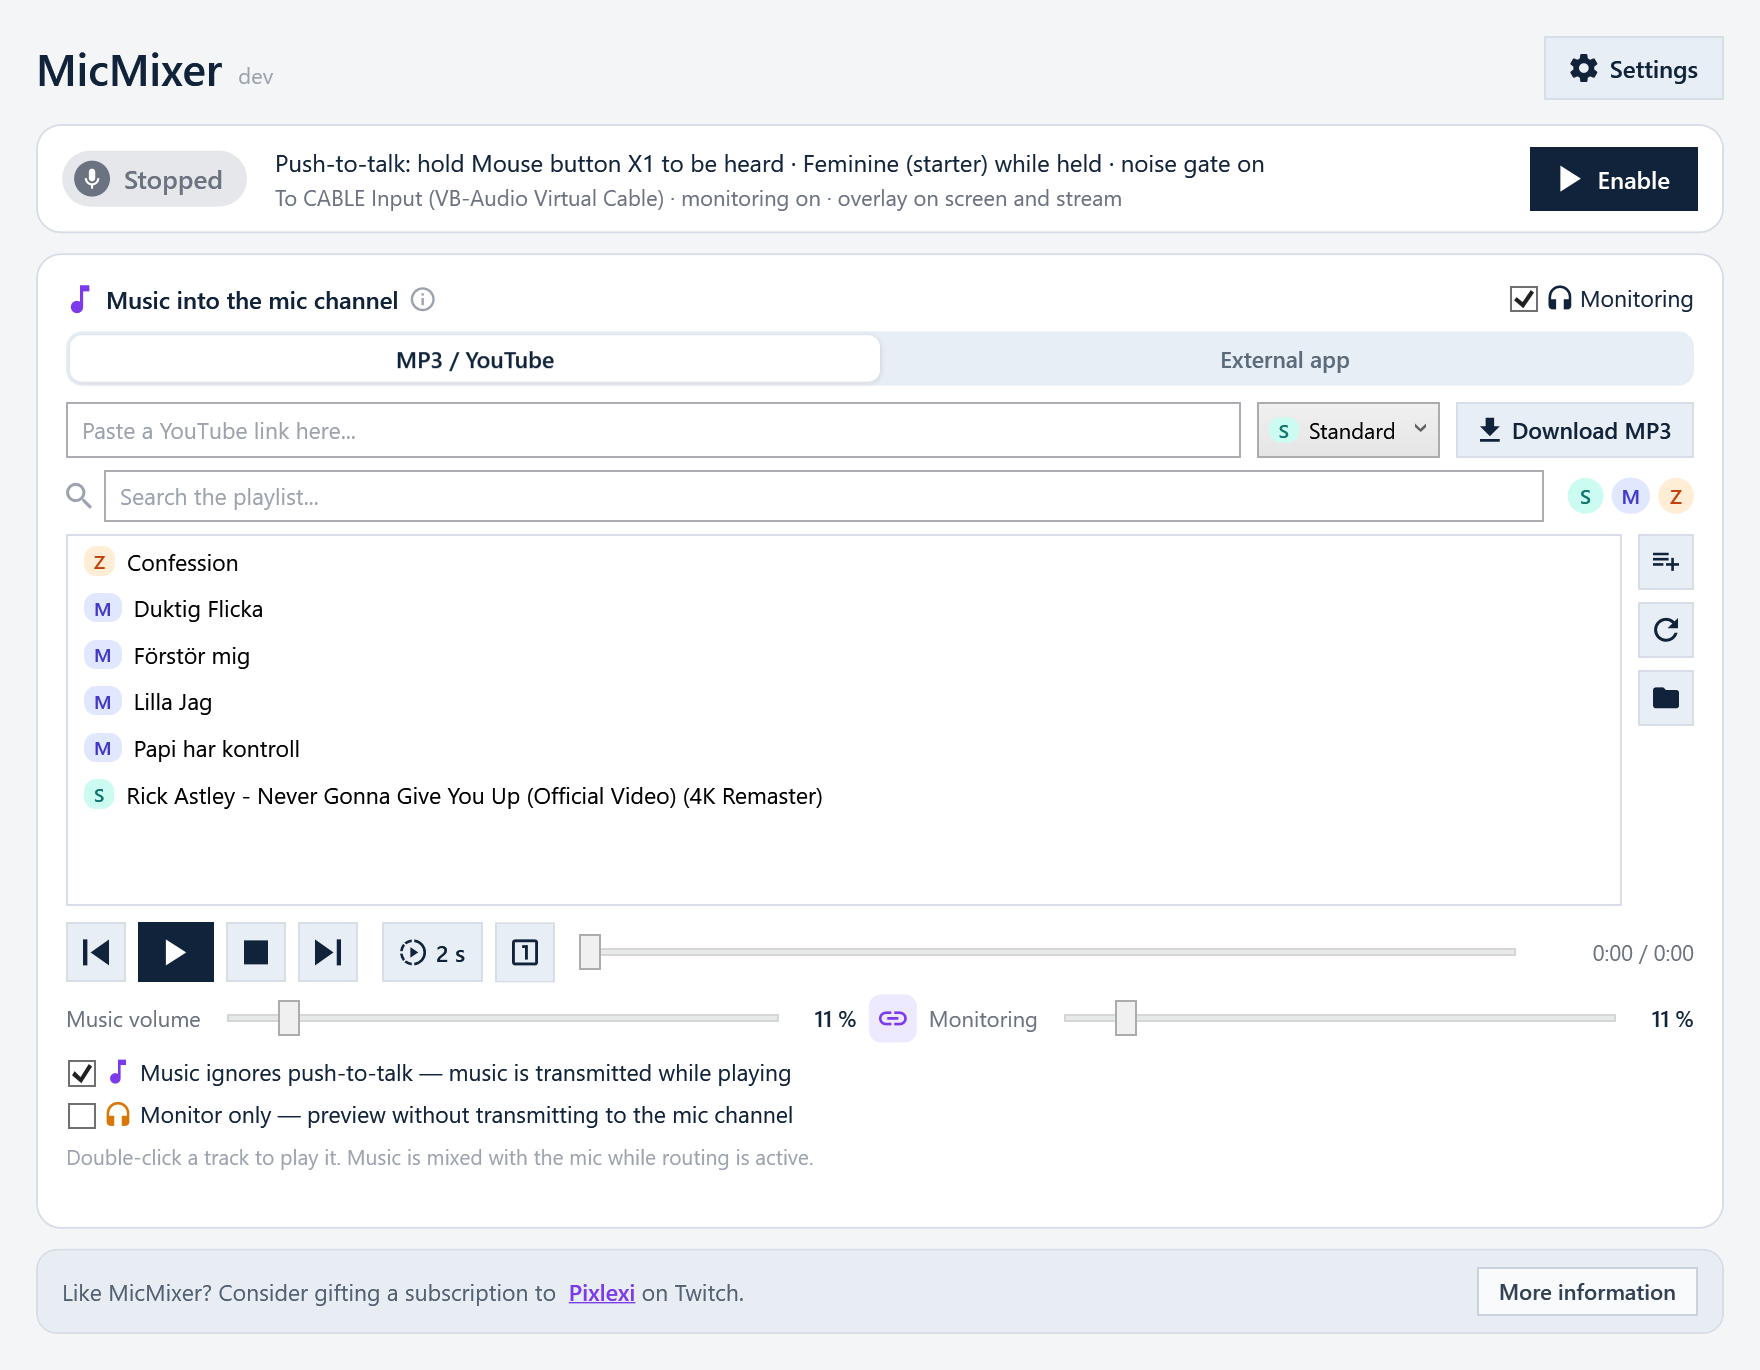
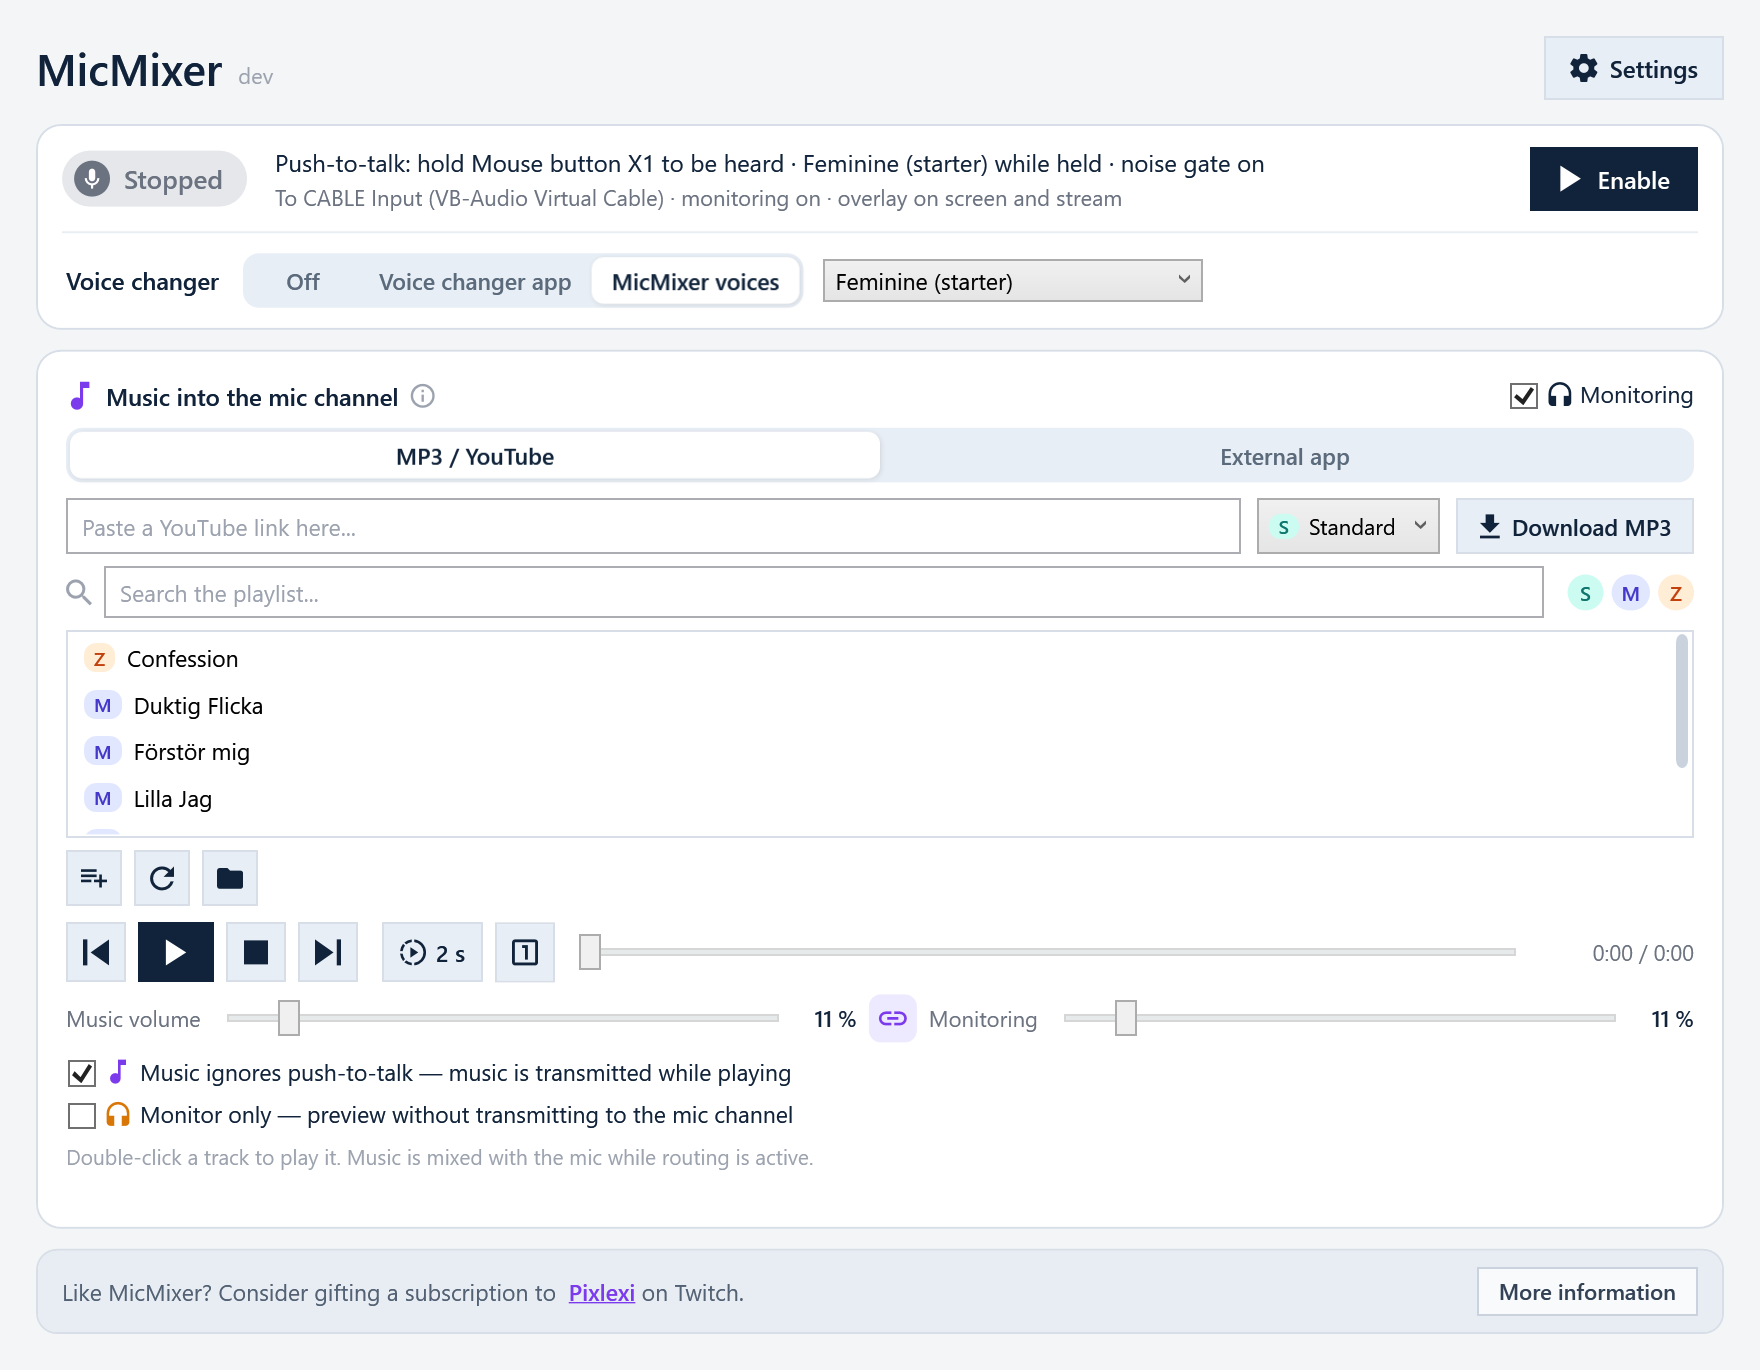
docs: describe the voice changer switch and MicMixer voices
Update README, INSTALLATION, release notes, guides and the local voice
profiles doc to the new names, the main window switch and the locked
settings banner, and refresh the main window screenshot.

diff --git a/README.md b/README.md
@@ -150,8 +150,8 @@ To set up by hand instead:
    installer asks.
 2. In MicMixer, open **Settings › Devices**.
 3. Select your physical microphone under **Normal mic**.
-4. Select a modified microphone, such as **Voicemod Virtual Audio Device**, or
-   choose **None**.
+4. Under **Voice changer**, choose **Off**, **Voice changer app** (then select its
+   microphone, such as **Voicemod Virtual Audio Device**), or **MicMixer voices**.
 5. Under **Virtual cable**, set **Send the mix to** to **CABLE Input (VB-Audio Virtual Cable)**.
 6. Click **Save**.
 7. In your voice chat, game, or streaming app, select **CABLE Output** as the microphone.
@@ -178,6 +178,9 @@ Secondary output, Music folders and General.
   goes.
 - Settings changes apply immediately, but are kept for the next start only after
   **Save**. **Discard changes** returns to the saved settings.
+- While routing is on, the microphones, the virtual cable and the secondary output
+  are locked because they are in use; a banner at the top of the settings window
+  says so and offers **Stop routing**.
 - The saved settings are the reference for the problem cards. When a saved
   device is not connected, the secondary output is misconfigured or fails, or
   settings are changed but not saved, the main window shows one card per problem
@@ -185,7 +188,8 @@ Secondary output, Music folders and General.
   MicMixer never replaces a saved device with a stand-in without saying so, and
   starting routing never overwrites the saved devices.
 - Music card controls (volumes, monitoring on/off, the music routing toggles,
-  source mode) and music folders are saved as they change.
+  source mode), the voice changer and its voice, and music folders are saved as
+  they change.
 
 ## Hotkey and push-to-talk
 
@@ -195,9 +199,17 @@ button that should select the modified mic while routing is active:
 - Hotkey held: the modified mic is routed.
 - Hotkey released: the normal mic is routed.
 - Release delay above `0 ms`: the modified mic remains active until the delay ends.
-- **None**: the hotkey is disabled unless push-to-talk is enabled.
-- **External microphone / Voicemod**: select the existing voice-changer output device.
-- **Local voice profile** (experimental): processes the physical microphone using a private local profile. Select a profile, create or edit one in the voice designer, or delete one you no longer want. Its **Volume** slider (under the modified-voice picker in Settings › Devices) adjusts the processed voice only, from 0 to 200%, while routing is active.
+The **Voice changer** decides what the hotkey switches to. Switch it from the row
+under the status card in the main window, or in **Settings › Devices**. It takes
+effect immediately; if routing is on, routing restarts for a moment.
+
+- **Off**: the hotkey is disabled unless push-to-talk is enabled.
+- **Voice changer app**: for apps such as Voicemod that create their own microphone
+  device. Select that device in **Settings › Devices**.
+- **MicMixer voices** (experimental): MicMixer changes your voice itself, from your
+  physical microphone, with no other app. Pick a voice next to the switch, or create,
+  edit and delete your own voices in **Settings › Devices**. Its **Volume** slider there
+  adjusts the processed voice only, from 0 to 200%, while routing is active.
 - **Volume** under the normal mic adjusts only the normal mic, on the same 0–200%
   scale. 100% sends it exactly as captured. MicMixer never lowers the normal mic
   on its own; raise this if it sounds quieter than your modified voice, or lower
@@ -206,7 +218,7 @@ button that should select the modified mic while routing is active:
 Push-to-talk reverses the idle behavior: while the hotkey is not held, the virtual
 cable receives silence. Neither microphone audio nor music is sent.
 
-- It also works with **None**, in which case the hotkey gates the normal mic.
+- It also works with the voice changer **Off**, in which case the hotkey gates the normal mic.
 - With a modified mic selected, holding the hotkey both opens the gate and selects it.
 - The release delay applies to push-to-talk as well.
 - Local music monitoring is not muted by push-to-talk.

diff --git a/docs/local-voice-profiles.md b/docs/local-voice-profiles.md
@@ -88,7 +88,9 @@ repository or ignored and verify `git ls-files recording` is empty.
 
 ## Create a voice in the app
 
-Stop routing, select **Local voice profile**, then choose **Create a voice…**.
+In the app, local voice profiles are called **MicMixer voices**. Stop routing, choose
+**MicMixer voices** as the voice changer, then choose **Create a voice…** in
+**Settings › Devices**.
 Start from neutral settings, a built-in starter, or an installed profile. Give the new
 voice a name, record a short phrase from the selected normal microphone, and
 choose headphones under **Listen on**. The selected virtual cable is excluded
@@ -150,13 +152,15 @@ Starters have stable reserved UUIDs and are loaded from the application, without
 creating files in AppData. Save voice always creates a new local UUID copy; imports
 cannot overwrite or shadow a starter. The original starters remain available.
 
-**Settings › Devices** lists normal mic, modified voice and the virtual cable
-(**Send the mix to**) as sections, top to bottom. The modified-voice dropdown only
+**Settings › Devices** lists normal mic, voice changer and the virtual cable
+(**Send the mix to**) as sections, top to bottom. The voice changer dropdown only
 names the *kind* of source. Its settings sit directly below it: nothing for
-**None**, the device picker for **External microphone / Voicemod**, and the profile
-picker, **Create a voice** and **Delete** for **Local voice profile**.
+**Off**, the device picker for **Voice changer app**, and the voice picker,
+**Create a voice** and **Delete** for **MicMixer voices**. The main window has the
+same three-way switch plus the voice picker under its status card, because the
+voice is switched during a session; a running route restarts with the new choice.
 
-The processed-voice volume sits under the modified-voice picker, laid out like the
+The processed-voice volume sits under the voice changer picker, laid out like the
 normal mic's volume above it, with a level bar next to each and the same 0–200% scale. The old alternate
 analysis-window checkbox is hidden unless the selected profile actually supplies
 an alternate. For a longer alternate it reads **Smoother processing (more delay)**;

diff --git a/docs/guides/fivem-music-through-mic.md b/docs/guides/fivem-music-through-mic.md
@@ -25,9 +25,9 @@ continuously.
 ## Step 1 — Route MicMixer into the game and open its voice gate
 
 1. Install VB-CABLE and reboot if the installer asks.
-2. In MicMixer, set **Normal mic** to your real microphone and **Virtual cable
-   output** to *CABLE Input (VB-Audio Virtual Cable)*. If you don't use a voice
-   changer, choose **None**.
+2. In MicMixer's **Settings › Devices**, set **Normal mic** to your real microphone
+   and **Send the mix to** to *CABLE Input (VB-Audio Virtual Cable)*, then click
+   **Save**. If you don't use a voice changer, set **Voice changer** to **Off**.
 3. In FiveM's voice settings, set **Input Device** to **CABLE Output**. FiveM
    exposes both an input-device setting and a voice-chat mode; a server resource
    may replace or override either one. Both settings are listed in the official

diff --git a/RELEASE_NOTES.md b/RELEASE_NOTES.md
@@ -21,6 +21,13 @@
   steps when none is found), and walks through the microphone, the cable, the
   game's microphone setting and the hotkey. Run it again from
   **Settings › General**.
+- **Switch the voice changer from the main window**: Off, Voice changer app or
+  MicMixer voices, plus the voice to use, right under the status card. It works
+  while routing is on; routing restarts for a moment with the new choice.
+- **Local voice profile is now MicMixer voices**, and the modified-voice setting
+  is called **Voice changer**.
+- The settings window now explains why some settings are locked while routing is
+  on, with a **Stop routing** button.
 - **Virtual cable output** is now called **Send the mix to**, with a short
   explanation of which end of the cable MicMixer uses and which one the game
   uses.

diff --git a/docs/guides/discord-single-input.md b/docs/guides/discord-single-input.md
@@ -20,7 +20,7 @@ receiving app changes.
 1. Install VB-CABLE and reboot if asked.
 2. In MicMixer's **Settings › Devices**, set **Normal mic** to your real
    microphone and **Send the mix to** to *CABLE Input*, then click **Save**.
-   Choose **None** under **Modified voice** if you don't use a voice changer.
+   Set **Voice changer** to **Off** if you don't use one.
    New to virtual cables? The setup guide in **Settings › General** explains
    which end goes where.
 3. In Discord, open **Settings → Voice & Video** and set **Input Device** to
